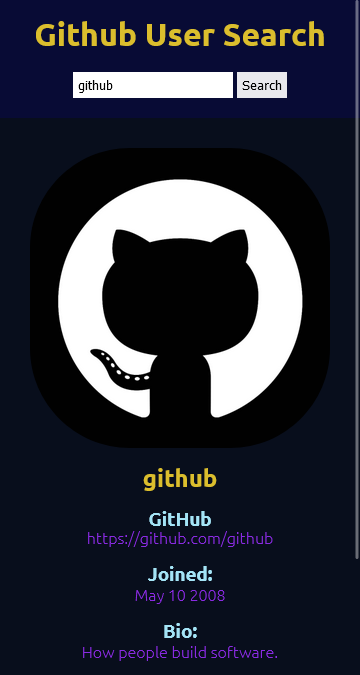
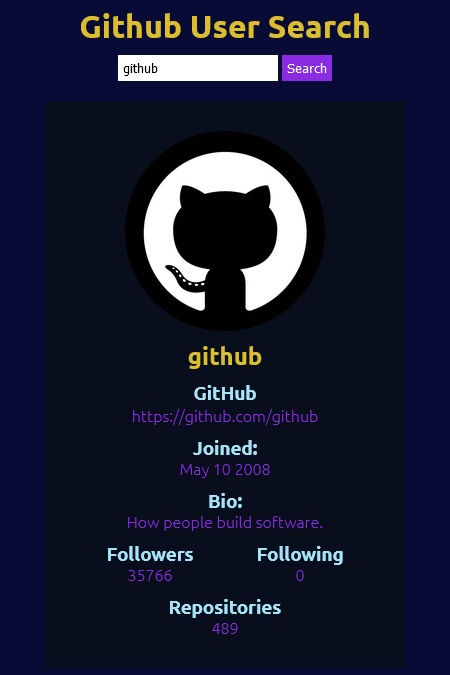
tweaked sizing

diff --git a/styles.css b/styles.css
@@ -10,8 +10,7 @@
 
 body {
   display: flex;
-  margin-top: 15px;
-  gap: 20px;
+  gap: 10px;
   flex-direction: column;
   width: 100vw;
   min-height: 100vh;
@@ -25,12 +24,15 @@ body {
 
 #search-input {
   padding: 5px;
+  margin-bottom: 10px;
   border: none;
 }
 
 #search-button {
   padding: 5px;
   border: none;
+  background-color: blueviolet;
+  color: white;
 }
 
 .main {
@@ -41,7 +43,8 @@ body {
   color: rgb(164, 228, 246);
   padding: 30px;
   background-color: rgb(8, 14, 28);
-  gap: 16px;
+  gap: 12px;
+  font-size: medium;
 }
 
 #user-error {
@@ -64,7 +67,7 @@ p {
 }
 
 #avatar {
-  width: 300px;
+  width: 200px;
   border-radius: 100px;
 }
 
@@ -73,7 +76,7 @@ p {
 }
 
 #user-link {
-  margin-top: -18px;
+  margin-top: -10px;
 }
 
 a,
